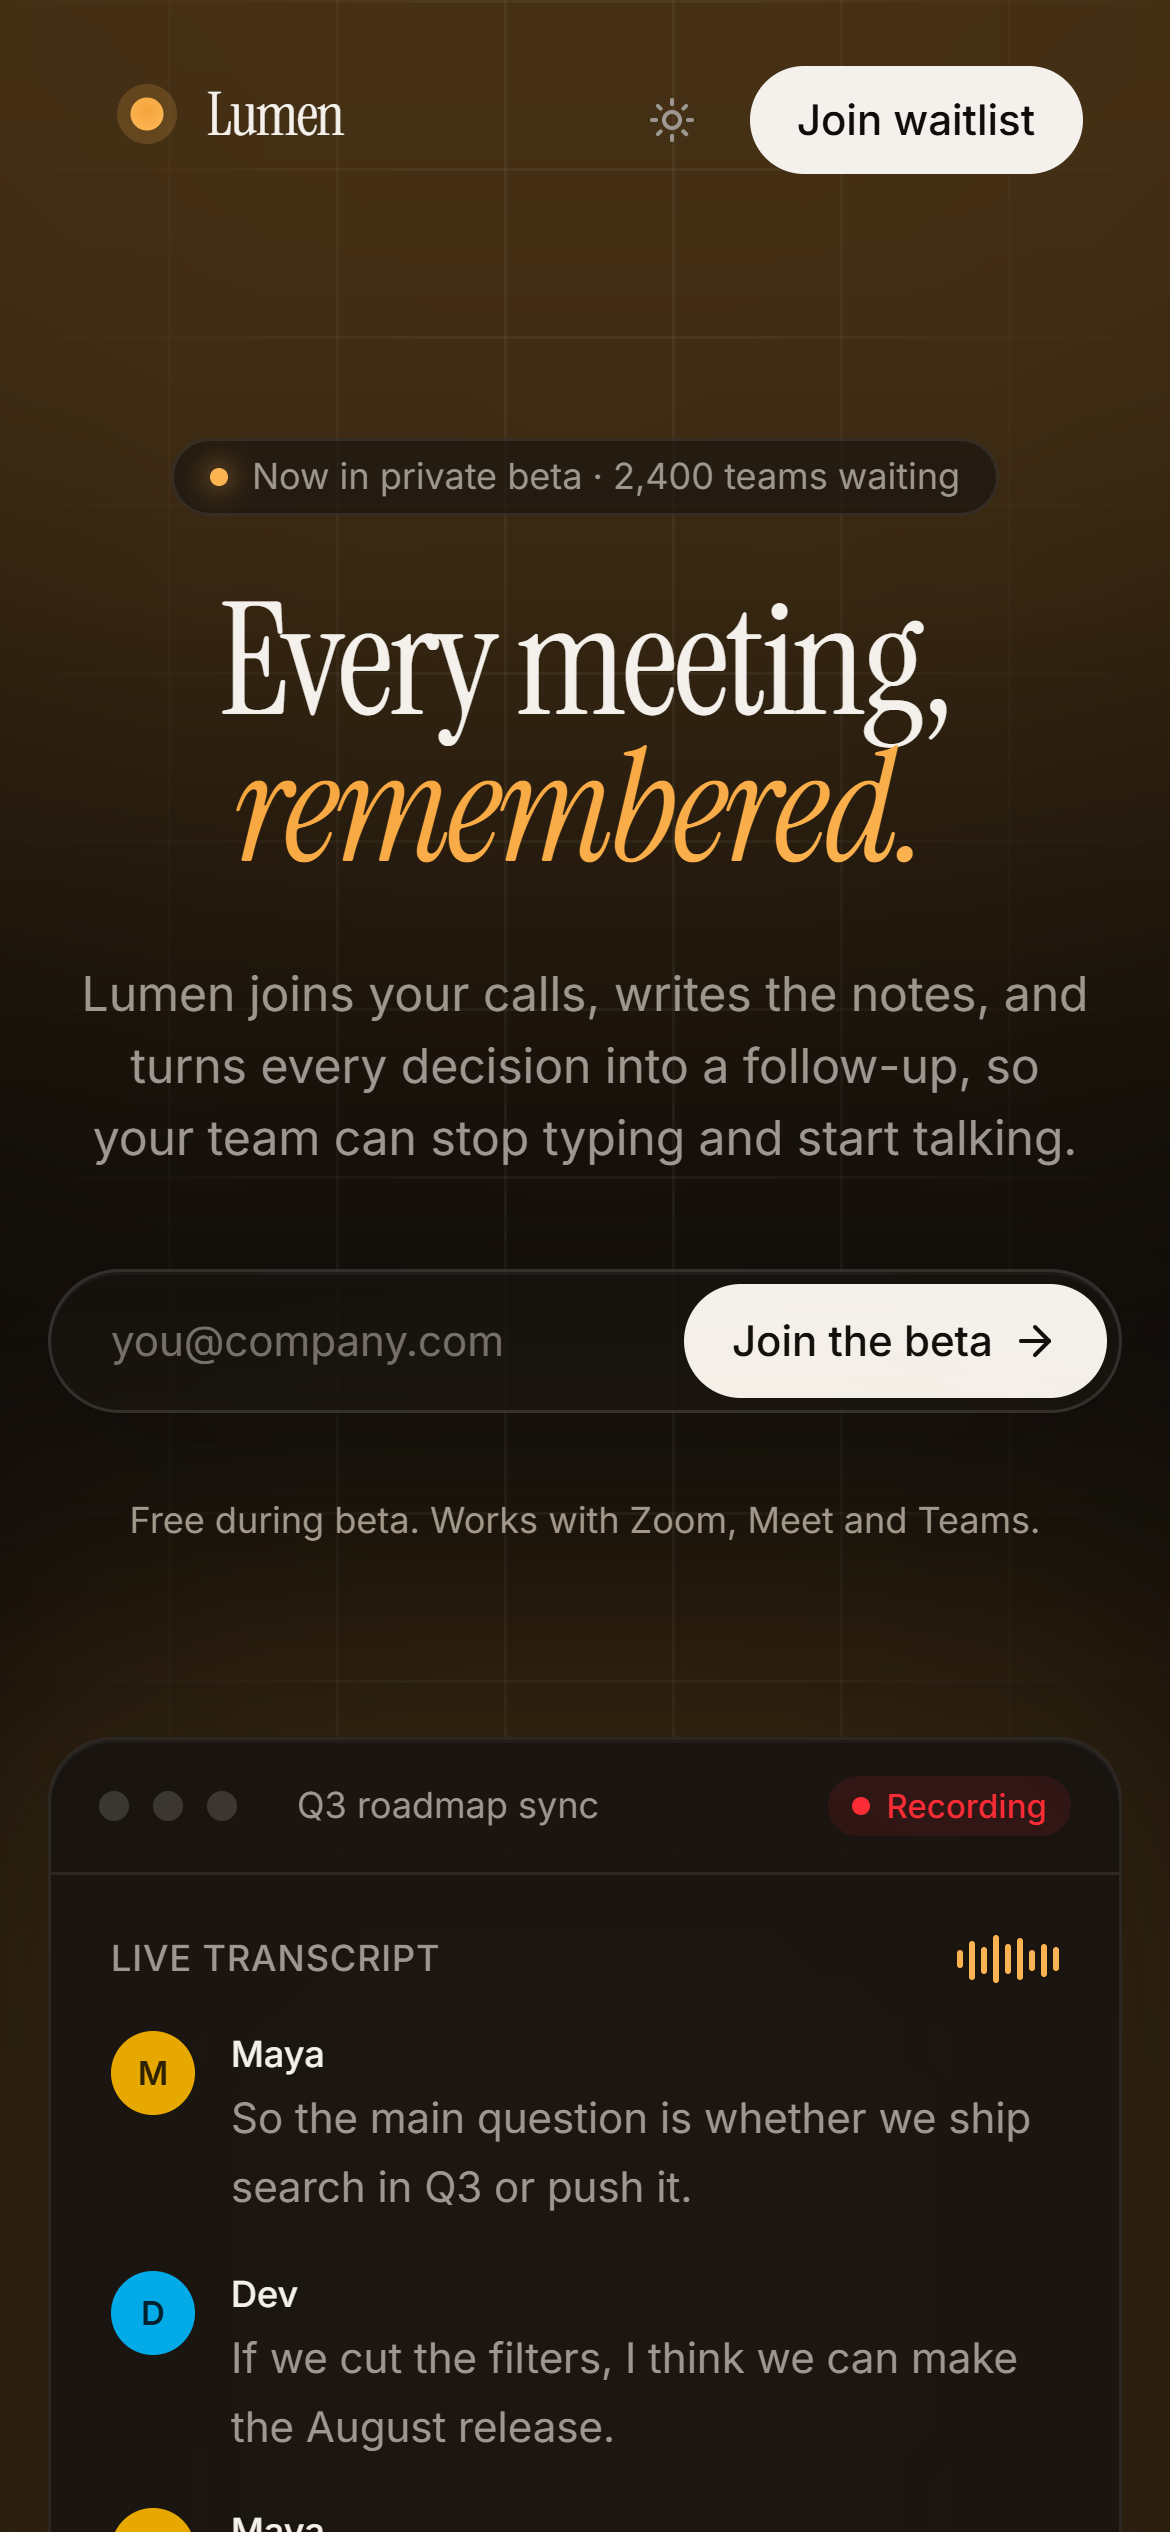
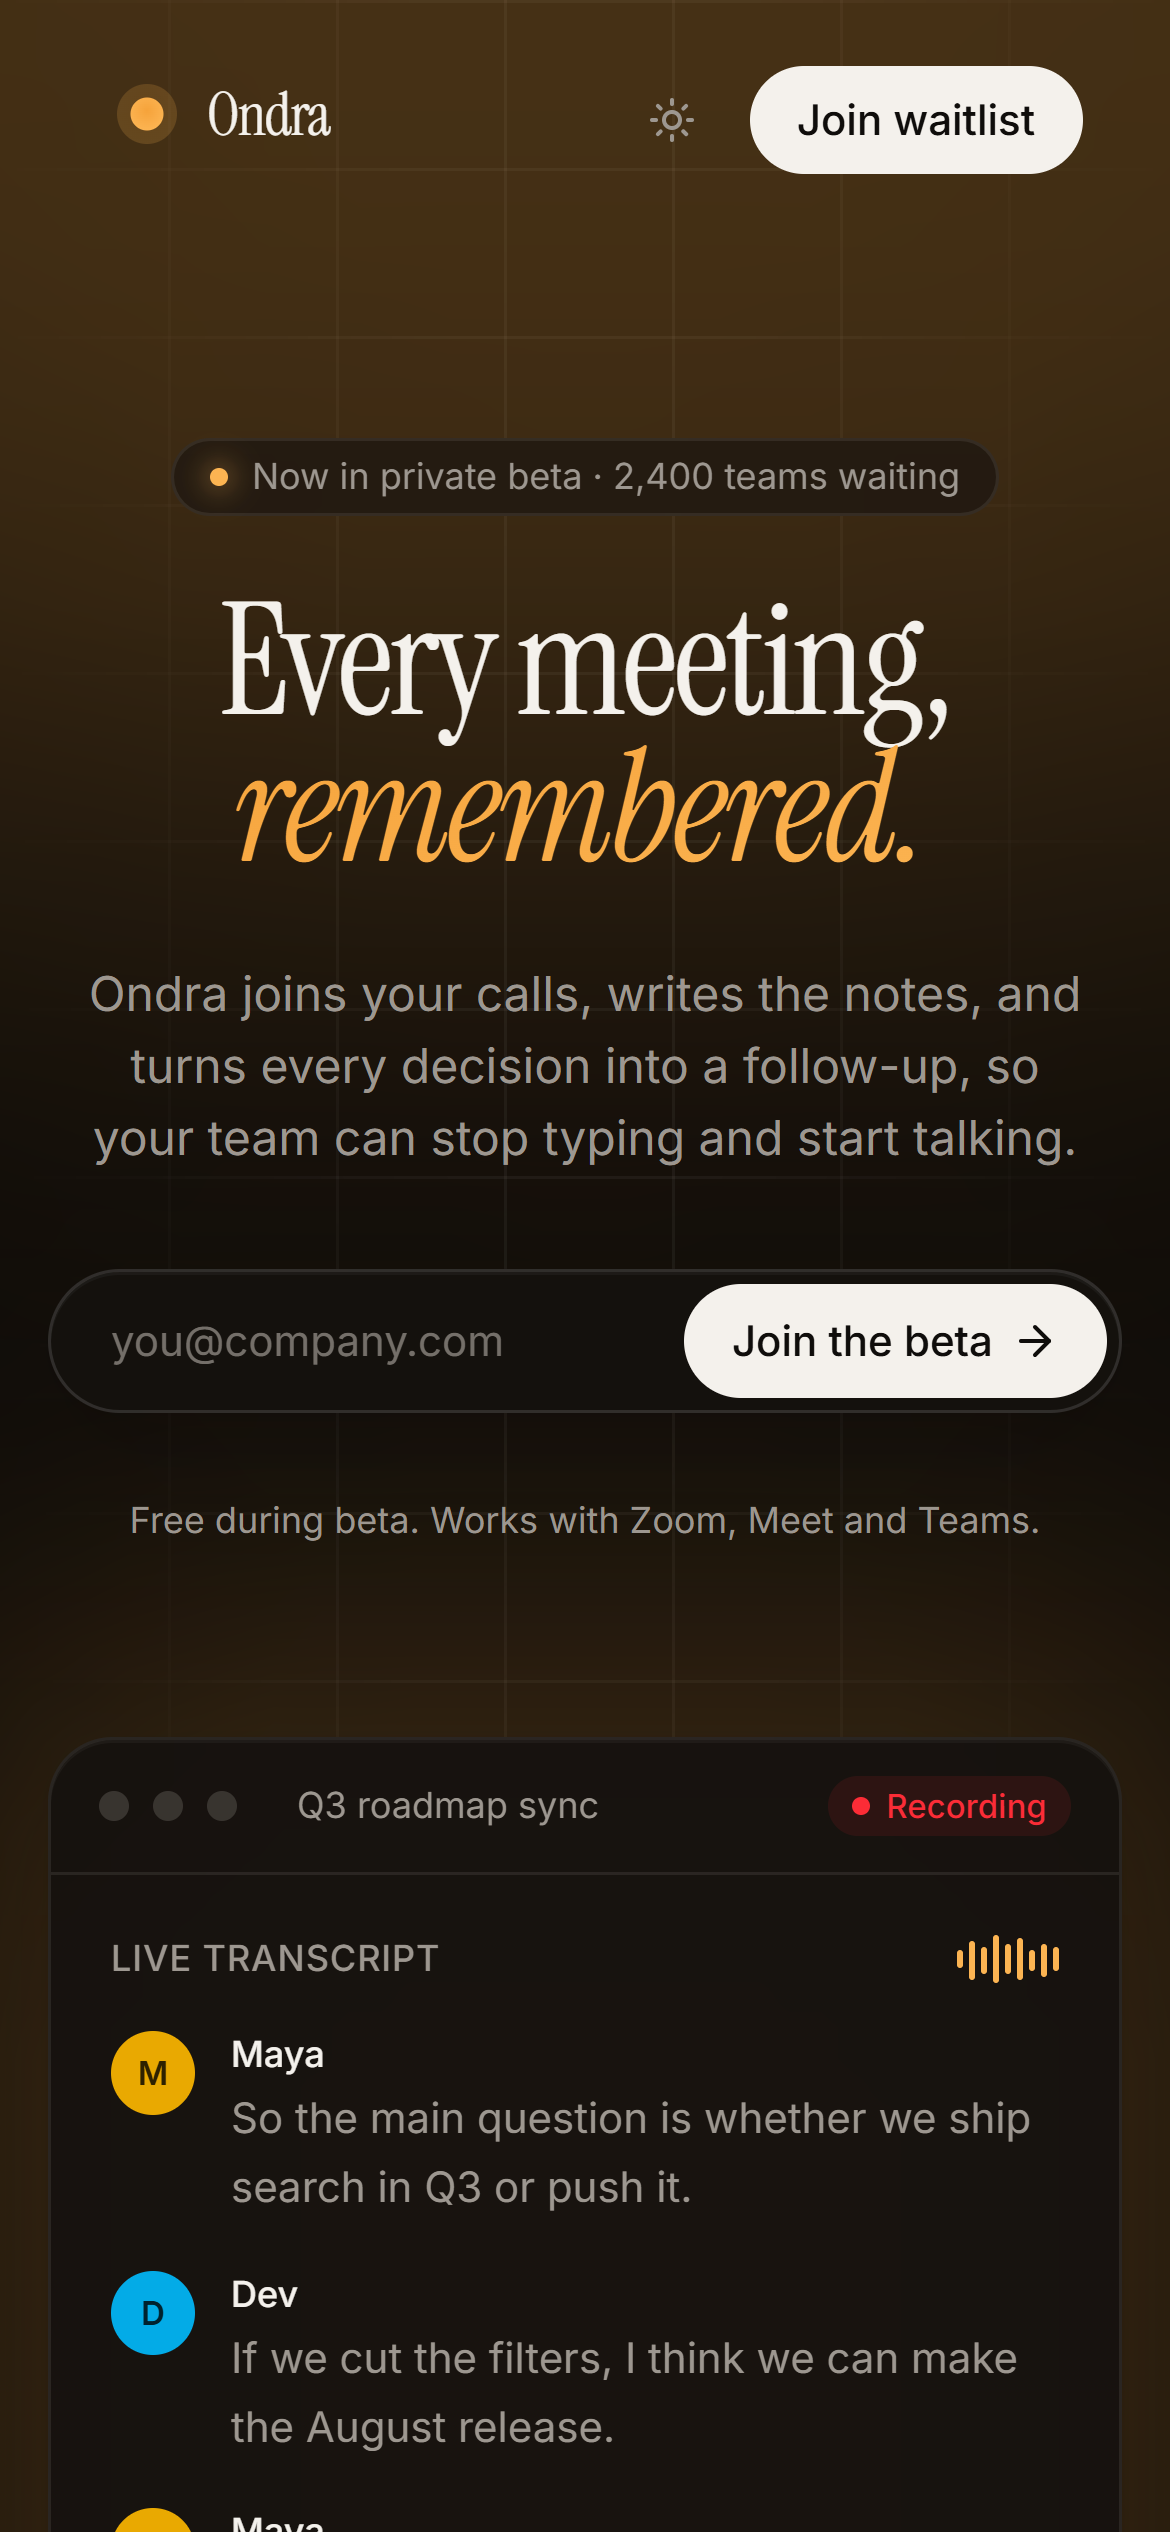
Rename brand from Lumen to Ondra
"Lumen" is already used by another AI note-taker. Ondra is a new name
with no matching product found. The "trusted by" companies are replaced
with clearly invented names, and the footer now says customers and
quotes are fictional. Screenshots and social images re-taken.

Changed region(s): [[0.0615, 0.3744, 0.9231, 0.4056], [0.1846, 0.0312, 0.3077, 0.0624]]

diff --git a/src/components/sections/testimonials.tsx b/src/components/sections/testimonials.tsx
@@ -1,14 +1,14 @@
 import { SectionHeading } from "@/components/section-heading";
 
 const quotes = [
-  { name: "Priya Raman", role: "Head of Product, Halcyon", text: "I used to spend 30 minutes after every call writing notes. Now I just read Lumen's and fix one line." },
-  { name: "Marcus Webb", role: "Engineering Manager, Fieldstone", text: "The action items are scary accurate. It caught a promise I'd already forgotten I made." },
-  { name: "Ana Lucía Torres", role: "Founder, Meridian", text: "Our investor updates basically write themselves now. Search across old calls is the killer feature." },
-  { name: "Jonah Feld", role: "Sales Lead, Northwind", text: "I'm finally present on discovery calls instead of typing the whole time. My close rate noticed." },
-  { name: "Keiko Tanaka", role: "Design Director, Arcadia Labs", text: "It's the first AI tool our whole team actually kept using after the first week." },
-  { name: "Samuel Okafor", role: "COO, Kestrel & Co", text: "Onboarding new hires is easier when they can search a year of decisions in seconds." },
-  { name: "Lena Brandt", role: "Researcher, Fieldstone", text: "User interviews used to take a day to synthesize. Lumen gives me the themes before I've hung up." },
-  { name: "Rafael Mendes", role: "CTO, Halcyon", text: "The privacy controls are what got it past our security review. The notes are what made people love it." },
+  { name: "Priya Raman", role: "Head of Product, Quillmoor", text: "I used to spend 30 minutes after every call writing notes. Now I just read Ondra's and fix one line." },
+  { name: "Marcus Webb", role: "Engineering Manager, Oarlock", text: "The action items are scary accurate. It caught a promise I'd already forgotten I made." },
+  { name: "Ana Lucía Torres", role: "Founder, Tallowmere", text: "Our investor updates basically write themselves now. Search across old calls is the killer feature." },
+  { name: "Jonah Feld", role: "Sales Lead, Brasswing", text: "I'm finally present on discovery calls instead of typing the whole time. My close rate noticed." },
+  { name: "Keiko Tanaka", role: "Design Director, Fernhollow Labs", text: "It's the first AI tool our whole team actually kept using after the first week." },
+  { name: "Samuel Okafor", role: "COO, Pebblestack & Co", text: "Onboarding new hires is easier when they can search a year of decisions in seconds." },
+  { name: "Lena Brandt", role: "Researcher, Oarlock", text: "User interviews used to take a day to synthesize. Ondra gives me the themes before I've hung up." },
+  { name: "Rafael Mendes", role: "CTO, Quillmoor", text: "The privacy controls are what got it past our security review. The notes are what made people love it." },
 ];
 
 const gradients = [

diff --git a/src/app/actions.ts b/src/app/actions.ts
@@ -70,7 +70,7 @@ async function sendConfirmation(email: string) {
   const key = process.env.RESEND_API_KEY;
   if (!key) return;
   // Resend's free tier can send from onboarding@resend.dev until you verify a domain.
-  const from = process.env.RESEND_FROM ?? "Lumen <onboarding@resend.dev>";
+  const from = process.env.RESEND_FROM ?? "Ondra <onboarding@resend.dev>";
   try {
     const res = await fetch("https://api.resend.com/emails", {
       method: "POST",
@@ -78,12 +78,12 @@ async function sendConfirmation(email: string) {
       body: JSON.stringify({
         from,
         to: email,
-        subject: "You're on the Lumen waitlist",
+        subject: "You're on the Ondra waitlist",
         html: `<div style="font-family:Inter,Arial,sans-serif;max-width:480px;margin:auto;padding:32px;color:#1f1b16">
   <h1 style="font-family:Georgia,serif;font-weight:400;font-size:28px;margin:0 0 16px">You're in.</h1>
-  <p style="line-height:1.6;color:#5c554c">Thanks for joining the Lumen private beta. We're letting teams in every week, and we'll email you the moment your spot opens.</p>
+  <p style="line-height:1.6;color:#5c554c">Thanks for joining the Ondra private beta. We're letting teams in every week, and we'll email you the moment your spot opens.</p>
   <p style="line-height:1.6;color:#5c554c">Until then, every meeting is still yours to remember.</p>
-  <p style="margin-top:32px;color:#9a9186;font-size:13px">The Lumen team</p>
+  <p style="margin-top:32px;color:#9a9186;font-size:13px">The Ondra team</p>
 </div>`,
       }),
       cache: "no-store",

diff --git a/src/components/sections/faq.tsx b/src/components/sections/faq.tsx
@@ -6,12 +6,12 @@ import { SectionHeading } from "@/components/section-heading";
 
 const faqs = [
   {
-    q: "How does Lumen join my meetings?",
-    a: "Connect your calendar and Lumen joins the calls you choose as a quiet participant. You can also start it manually from the desktop app for in-person meetings.",
+    q: "How does Ondra join my meetings?",
+    a: "Connect your calendar and Ondra joins the calls you choose as a quiet participant. You can also start it manually from the desktop app for in-person meetings.",
   },
   {
     q: "Does everyone know they're being recorded?",
-    a: "Yes. Lumen announces itself when it joins, shows a recording badge to every participant, and anyone can ask it to leave.",
+    a: "Yes. Ondra announces itself when it joins, shows a recording badge to every participant, and anyone can ask it to leave.",
   },
   {
     q: "Is my data used to train AI models?",
@@ -26,8 +26,8 @@ const faqs = [
     a: "Your notes stay put. Beta members keep Pro free until launch, then get three months at half price. You can drop to the Free plan at any time.",
   },
   {
-    q: "Can I edit the notes Lumen writes?",
-    a: "Of course. Every summary and action item is editable, and Lumen learns your team's preferred format over time.",
+    q: "Can I edit the notes Ondra writes?",
+    a: "Of course. Every summary and action item is editable, and Ondra learns your team's preferred format over time.",
   },
 ];
 

diff --git a/src/components/product-mockup.tsx b/src/components/product-mockup.tsx
@@ -47,7 +47,7 @@ export function ProductMockup() {
       <div aria-hidden className="absolute -inset-x-10 -top-10 -bottom-10 -z-10 rounded-[3rem] bg-glow/20 blur-3xl" />
       <div
         role="img"
-        aria-label="Lumen app: a live meeting transcript on the left, AI summary and action items on the right"
+        aria-label="Ondra app: a live meeting transcript on the left, AI summary and action items on the right"
         className="overflow-hidden rounded-2xl border bg-surface/90 shadow-soft backdrop-blur-xl"
       >
         {/* Window chrome */}
@@ -96,7 +96,7 @@ export function ProductMockup() {
           {/* AI notes */}
           <div className="bg-muted/40 p-5 md:p-6">
             <p className="inline-flex items-center gap-1.5 text-xs font-medium tracking-wide text-accent uppercase">
-              <SparklesIcon className="size-3.5" /> Lumen notes
+              <SparklesIcon className="size-3.5" /> Ondra notes
             </p>
             <div className="mt-4 min-h-64">
               <AnimatePresence>

diff --git a/src/components/logo.tsx b/src/components/logo.tsx
@@ -3,15 +3,15 @@ export function Logo({ className }: { className?: string }) {
     <span className={`inline-flex items-center gap-2 ${className ?? ""}`}>
       <svg viewBox="0 0 24 24" className="size-6" aria-hidden="true">
         <defs>
-          <radialGradient id="lumen-g" cx="50%" cy="40%" r="60%">
+          <radialGradient id="ondra-g" cx="50%" cy="40%" r="60%">
             <stop offset="0%" stopColor="var(--glow)" />
             <stop offset="100%" stopColor="var(--accent)" />
           </radialGradient>
         </defs>
-        <circle cx="12" cy="12" r="10" fill="url(#lumen-g)" opacity="0.18" />
-        <circle cx="12" cy="12" r="5.5" fill="url(#lumen-g)" />
+        <circle cx="12" cy="12" r="10" fill="url(#ondra-g)" opacity="0.18" />
+        <circle cx="12" cy="12" r="5.5" fill="url(#ondra-g)" />
       </svg>
-      <span className="font-serif text-xl tracking-tight">Lumen</span>
+      <span className="font-serif text-xl tracking-tight">Ondra</span>
     </span>
   );
 }

diff --git a/src/components/sections/hero.tsx b/src/components/sections/hero.tsx
@@ -2,7 +2,7 @@ import { FadeIn, Reveal } from "@/components/reveal";
 import { WaitlistForm } from "@/components/waitlist-form";
 import { ProductMockup } from "@/components/product-mockup";
 
-const companies = ["Northwind", "Halcyon", "Arcadia Labs", "Meridian", "Fieldstone", "Kestrel & Co"];
+const companies = ["Brasswing", "Quillmoor", "Fernhollow Labs", "Tallowmere", "Oarlock", "Pebblestack & Co"];
 
 export function Hero() {
   return (
@@ -33,7 +33,7 @@ export function Hero() {
 
         <FadeIn delay={0.16}>
           <p className="mx-auto mt-6 max-w-xl text-base text-muted-foreground text-balance sm:text-lg">
-            Lumen joins your calls, writes the notes, and turns every decision into a follow-up, so your team can
+            Ondra joins your calls, writes the notes, and turns every decision into a follow-up, so your team can
             stop typing and start talking.
           </p>
         </FadeIn>

diff --git a/src/app/layout.tsx b/src/app/layout.tsx
@@ -21,11 +21,11 @@ const geistMono = Geist_Mono({
 });
 
 export const metadata: Metadata = {
-  title: "Lumen: AI meeting notes that remember everything",
+  title: "Ondra: AI meeting notes that remember everything",
   description:
-    "Lumen joins your calls, writes the notes, and turns every decision into a follow-up. Join the private beta.",
+    "Ondra joins your calls, writes the notes, and turns every decision into a follow-up. Join the private beta.",
   openGraph: {
-    title: "Lumen: AI meeting notes",
+    title: "Ondra: AI meeting notes",
     description: "Every meeting, remembered.",
     type: "website",
   },

diff --git a/src/components/navbar.tsx b/src/components/navbar.tsx
@@ -30,7 +30,7 @@ export function Navbar() {
             : "border-transparent bg-transparent"
         }`}
       >
-        <a href="#top" aria-label="Lumen home" className="rounded-md focus-visible:ring-3 focus-visible:ring-ring/50 focus-visible:outline-none">
+        <a href="#top" aria-label="Ondra home" className="rounded-md focus-visible:ring-3 focus-visible:ring-ring/50 focus-visible:outline-none">
           <Logo />
         </a>
         <ul className="hidden items-center gap-1 md:flex">

diff --git a/src/components/sections/features.tsx b/src/components/sections/features.tsx
@@ -58,7 +58,7 @@ export function Features() {
             <span className="text-muted-foreground italic">Follow-ups that don&apos;t slip.</span>
           </>
         }
-        description="Lumen listens, understands who said what, and hands you a clean record of every conversation."
+        description="Ondra listens, understands who said what, and hands you a clean record of every conversation."
       />
 
       <div className="mx-auto mt-16 grid max-w-5xl grid-cols-1 gap-4 md:grid-cols-6">

diff --git a/src/components/sections/footer.tsx b/src/components/sections/footer.tsx
@@ -32,7 +32,7 @@ export function Footer() {
         ))}
       </div>
       <div className="mx-auto mt-14 flex max-w-5xl flex-col gap-2 border-t pt-6 text-xs text-muted-foreground sm:flex-row sm:justify-between">
-        <p>© 2026 Lumen. A portfolio concept; Lumen is not a real company.</p>
+        <p>© 2026 Ondra. A portfolio concept: Ondra, its customers and quotes are fictional.</p>
         <p>Built with Next.js, Tailwind CSS and Motion.</p>
       </div>
     </footer>

diff --git a/src/components/sections/pricing.tsx b/src/components/sections/pricing.tsx
@@ -10,7 +10,7 @@ import { SectionHeading } from "@/components/section-heading";
 const plans = [
   {
     name: "Free",
-    blurb: "For trying Lumen on your own calls.",
+    blurb: "For trying Ondra on your own calls.",
     monthly: 0,
     yearly: 0,
     cta: "Start free",

diff --git a/docs/case-study.md b/docs/case-study.md
@@ -1,11 +1,11 @@
-# Lumen: case study
+# Ondra: case study
 
 **Role:** Design and development (solo)
 **Type:** SaaS marketing site / landing page
 **Stack:** Next.js 16, TypeScript, Tailwind CSS v4, shadcn/ui, Motion, Supabase, Resend, Vercel
-**Links:** [Live site](https://lumen-sass-landing.vercel.app) · [Code](https://github.com/shervs336/lumen-sass-landing)
+**Links:** [Live site](https://lumen-sass-landing.vercel.app) · [Code](https://github.com/shervs336/ondra-saas-landing)
 
-![Lumen landing page](thumbnail@2x.png)
+![Ondra landing page](thumbnail@2x.png)
 
 ---
 
@@ -23,7 +23,7 @@ The goal was a page that feels like a funded product's site, with a waitlist tha
 
 ## Approach
 
-- **Show, don't tell.** Instead of a static screenshot, the hero shows the product working. A meeting transcript appears line by line, then Lumen writes the decisions and checks off action items. Visitors understand the product before they read a word.
+- **Show, don't tell.** Instead of a static screenshot, the hero shows the product working. A meeting transcript appears line by line, then Ondra writes the decisions and checks off action items. Visitors understand the product before they read a word.
 - **Editorial typography.** A serif display face (Instrument Serif) paired with Inter, plus a warm amber accent, set it apart from the default "blue SaaS" look.
 - **Real backend, zero cost.** The waitlist uses a Next.js Server Action that writes to Supabase Postgres and sends a confirmation email through Resend.
 
